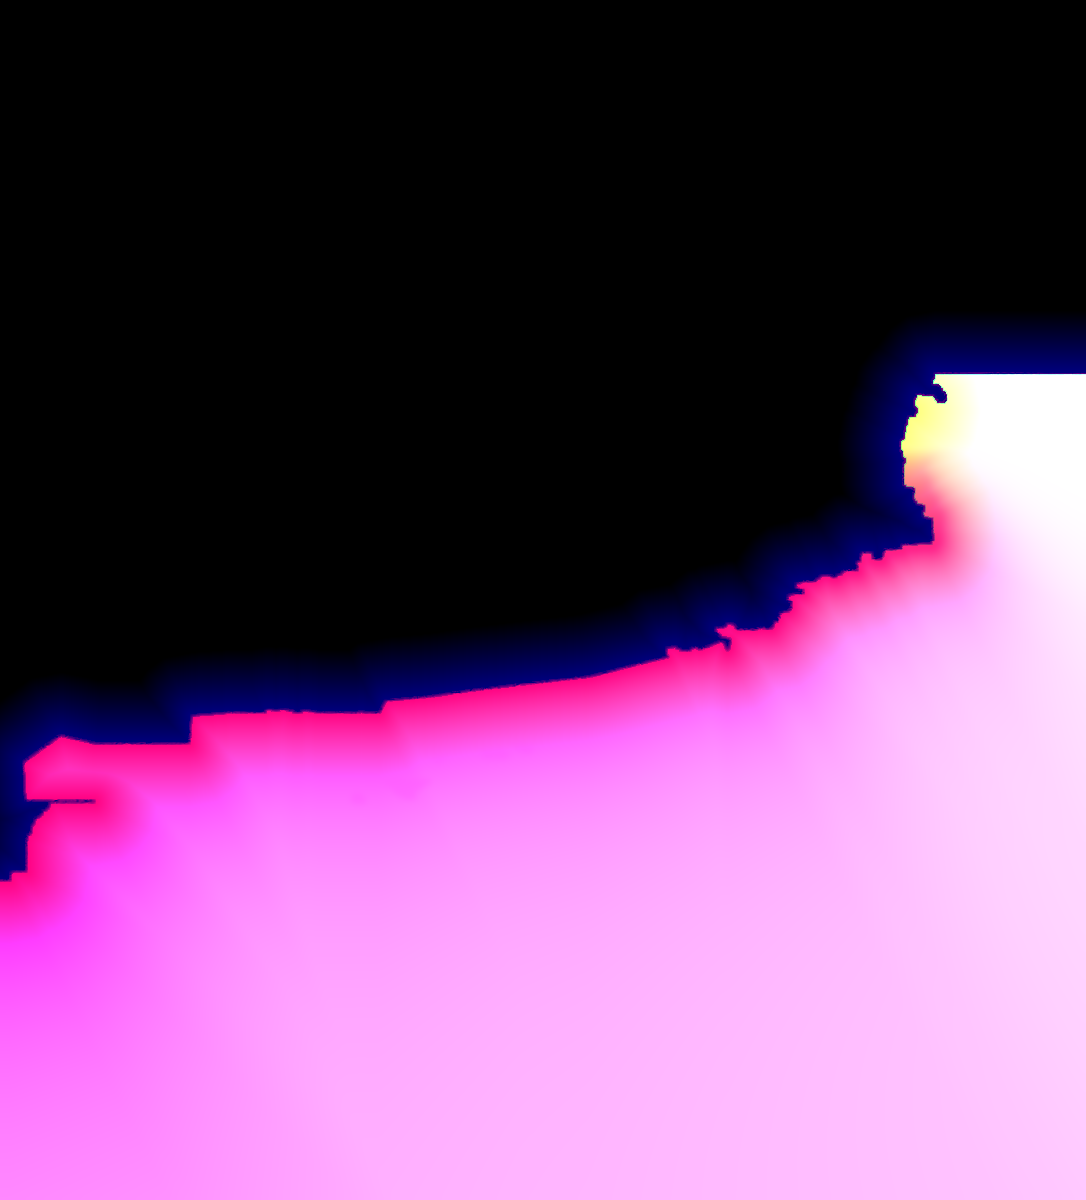
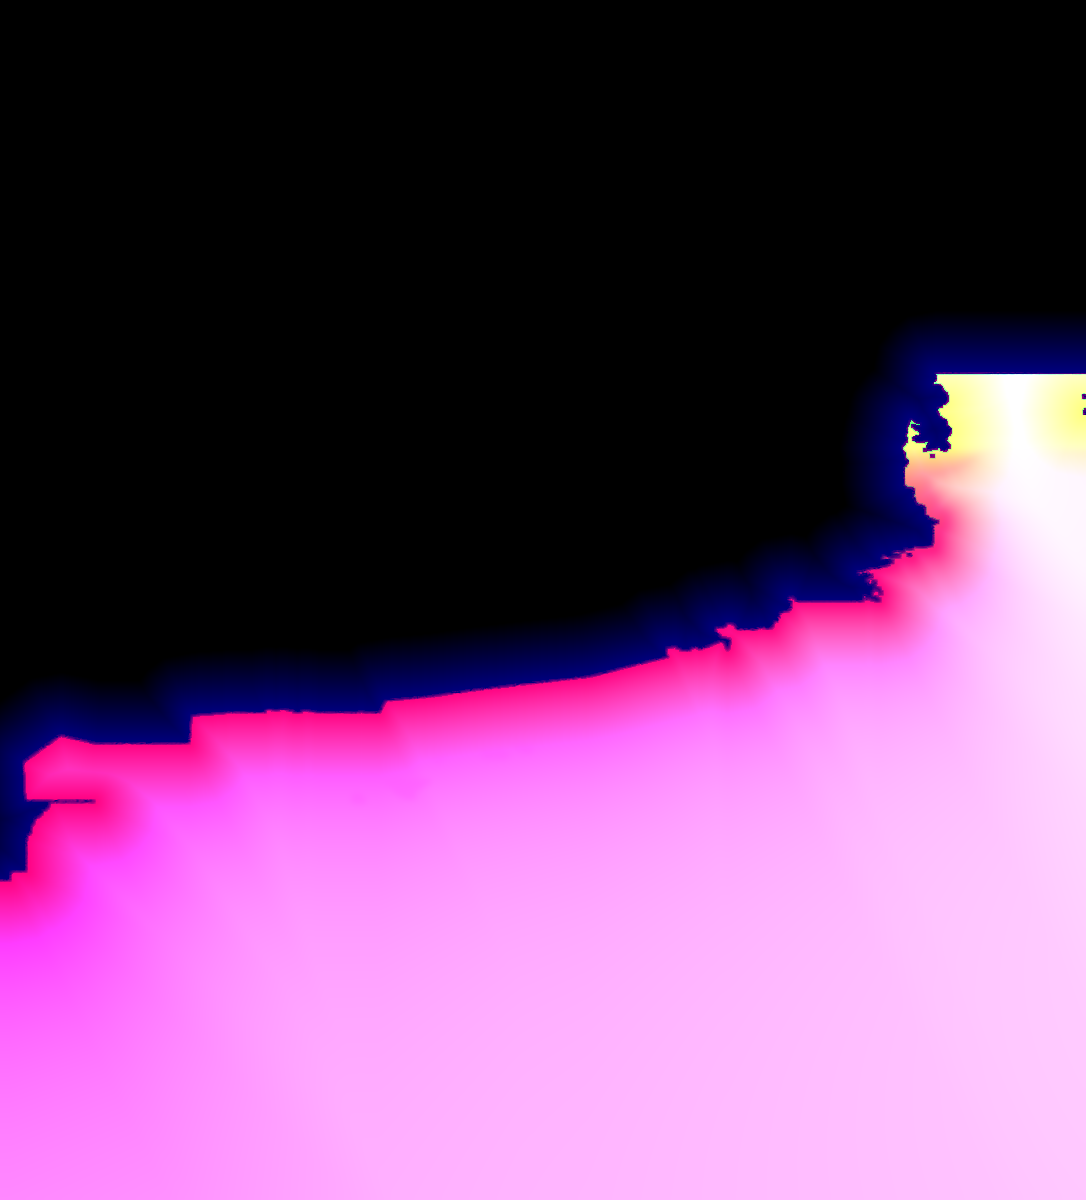
Foglie: il ramo a destra torna com'era, i cespugli con verdi propri; mare lontano
- Ramo a destra: di nuovo il dettaglio della foto e il bordo morbido di prima.
- Cespugli in basso: non prendono più i colori della foto, ma una tavolozza
  di verdi propria, più chiari all'esterno e più scuri dentro.
- sea.py: vicino alla costa lontana gli alberi non sono più dentro l'acqua
  (di notte il mare e la scia della luna ci passavano sopra).
- Mare lontano: dove le onde sono più piccole di un pixel torna il dettaglio
  della foto, così non è più sfocato.

Claude-Session: https://claude.ai/code/session_016rfVP7zDddbD6eFjRHCoFi

Changed region(s): [[0.6989, 0.4008, 0.8812, 0.6167], [0.8204, 0.3083, 1.0, 0.4008]]

diff --git a/scene.html b/scene.html
@@ -231,6 +231,9 @@ vec3 water(vec2 q, vec2 ip, vec3 sea, float expo, float aspect){
   // never a dark net
   float caus = exp(-lap*lap/0.06);
   bed *= 1.0 + floorK*CAUSTIC*(caus - 0.16);
+  // far out, where the waves are smaller than a pixel, the photo's own detail (it barely moves at
+  // that distance): the far sea stays as sharp as the photo
+  bed += (texture(uPlate, q).rgb - textureLod(uPlate, q, 2.0).rgb)*lostB*smoothstep(0.75, 1.0, depth)*(1.0 - 0.8*uSkyMix);
   vec3 body = grade(bed);
   // (softened where it is large, out at the slant, so the long waves do not stripe the sea black)
   float dF = F - F0; dF /= 1.0 + 4.0*abs(dF);
@@ -553,8 +556,8 @@ void main(){
     d = max(abs(vUV.y) - hw, abs(vUV.x) - 0.5*vLen);
     // the photo's leaves at this spot (veins, sheen, shade), mixed with the leaf's own colour
     vec2 rp = vRest + vRestDir*vUV.x + vec2(-vRestDir.y, vRestDir.x)*vUV.y;
-    vec3 ph = texture(uLeafRGB, rp/uImg).rgb;
-    c = mix(c, ph, 0.7);
+    // only the oak on the right: the bushes below keep their own colours
+    if (vKind > 0.5) c = mix(c, texture(uLeafRGB, rp/uImg).rgb, 0.7);
     // light across the blade: one half catches it, the other is a touch darker; darker at the rim
     c *= 1.0 + 0.10*sign(vUV.y)*(0.5 + 0.5*vFlip) - 0.18*smoothstep(0.55, 1.0, abs(vUV.y)/max(hw, 0.3));
     // its midrib, the light on it as it turns, and the paler underside when it flips over
@@ -562,7 +565,8 @@ void main(){
     c *= 1.0 + 0.16*vFlip;
     c = mix(c, vec3(dot(c, LUM))*1.35 + c*0.15, 0.4*smoothstep(-0.3, -1.0, vFlip));
   }
-  float a = clamp(1.25*smoothstep(vSoft, -vSoft, d), 0.0, 1.0);   // a leaf is opaque: only its rim is soft
+  float a = smoothstep(vSoft, -vSoft, d);
+  if (vKind < 0.5) a = clamp(1.25*a, 0.0, 1.0);    // a bush leaf is opaque: only its rim is soft
   if (a < 0.003) discard;
   vec3 col = grade(c);
   col = mix(col, 1.0 - 0.2*exp(-(col - 0.8)/0.2), step(0.8, col));
@@ -1056,7 +1060,7 @@ try {
   const rigSrc = 'img/rig.json';
   const [maps, sky, fill, plate, seabed, sea, objects, leafRGB, rig] = await Promise.all([
     loadImage('img/maps.png'), loadImage('img/sky.png'), loadImage('img/skyfill.png'), loadImage(SCENE.plate),
-    loadImage('img/seabed.webp'), loadImage('img/sea.png'), loadImage('img/objects.webp'), loadImage('img/leafcol.webp'),
+    loadImage('img/seabed.webp'), loadImage('img/sea.png'), loadImage('img/objects.webp'), loadImage('img/leafrgb.webp'),
     typeof rigSrc === 'string' ? fetch(rigSrc).then(r => r.json()) : rigSrc]);
   gl.useProgram(prog);
   texture(4, plate, {srgb: true, mips: true}); gl.uniform1i(U.uPlate, 4);

diff --git a/tools/foliage.py b/tools/foliage.py
@@ -15,7 +15,7 @@ backlight) stays where the photo has it.
             the bushes along the bottom, softer where the photo is out of focus there.
   twigs     on the branch on the right, the segments of the skeleton, thin and dark.
 
-Output: img/rig.json, and img/leafcol.webp (the leaves' colour, carried over their soft rim). Review image: tools/out/foliage.jpg (the leaves drawn still, over the plate).
+Output: img/rig.json. Review image: tools/out/foliage.jpg (the leaves drawn still, over the plate).
 """
 import os, json, base64
 from collections import deque
@@ -67,7 +67,8 @@ def main():
     plant = ((H < 70) & (S > 40)) | (V < 55)
     branch = (xx > 790) & (yy < 1010)          # the branch on the right: its matte is right as it is
     mask = (leafA > 0.45) & np.where(branch, ~((H >= 79) & (H <= 112) & (S > 45) & (V > 70)), plant & ~waterish)
-    mask = cv2.morphologyEx(mask.astype(np.uint8), cv2.MORPH_OPEN, np.ones((2, 2), np.uint8)).astype(bool)
+    opened = cv2.morphologyEx(mask.astype(np.uint8), cv2.MORPH_OPEN, np.ones((2, 2), np.uint8)).astype(bool)
+    mask = np.where(branch, mask, opened)
     mask = cv2.morphologyEx(mask.astype(np.uint8), cv2.MORPH_CLOSE, np.ones((3, 3), np.uint8)).astype(bool)
     n, lab, st, _ = cv2.connectedComponentsWithStats(mask.astype(np.uint8), connectivity=8)
     keep = np.zeros(n, bool)
@@ -136,10 +137,17 @@ def main():
     # over the soft, out-of-focus rim (where the photo shows as much sea as leaf), so a leaf at the
     # edge of a bush is green, not the colour of the water behind it
     F = cv2.imread(os.path.join(OUT, 'leafrgb.webp')).astype(np.float32)
-    sure = (leafA > 0.85) & mask & ~waterish
-    sure = cv2.erode(sure.astype(np.uint8), np.ones((3, 3), np.uint8)).astype(bool)
-    F = np.where(sure[..., None], F, maps.pull_push(F, sure))
-    cv2.imwrite(os.path.join(OUT, 'leafcol.webp'), np.clip(F, 0, 255).astype(np.uint8), [cv2.IMWRITE_WEBP_QUALITY, 85])
+    # the bushes along the bottom do not take the photo's colours (out of focus, half sea): a
+    # palette of their own greens, lighter on the outside of the bush where the sun reaches,
+    # darker deep inside
+    inside = cv2.distanceTransform(mask.astype(np.uint8), cv2.DIST_L2, 5)
+    def bush_colour(x, y, layer):
+        depth = np.clip(inside[int(y), int(x)] / 28.0, 0, 1)
+        hue = 34 + 9 * rng.random()                                  # OpenCV hue: yellow-green .. green
+        sat = 150 + 60 * rng.random()
+        val = (205 - 120 * depth) * (0.8 + 0.3 * rng.random()) * (0.85 if layer == 0 else 1.0)
+        hsv_ = np.uint8([[[hue, min(sat, 255), np.clip(val, 30, 235)]]])
+        return cv2.cvtColor(hsv_, cv2.COLOR_HSV2BGR)[0, 0].astype(np.float32)
     g = cv2.cvtColor(im, cv2.COLOR_BGR2GRAY).astype(np.float32)
     sharp = np.sqrt(cv2.GaussianBlur(cv2.Laplacian(g, cv2.CV_32F) ** 2, (0, 0), 10))
     right = mask & (xx > 790) & (yy < 1010)
@@ -163,10 +171,13 @@ def main():
                 r = max(1, int(L * 0.35))
                 y0, y1, x0, x1 = max(0, yi - r), min(h, yi + r + 1), max(0, xi - r), min(w, xi + r + 1)
                 sub = mask[y0:y1, x0:x1]
-                col = F[y0:y1, x0:x1][sub].mean(0) if sub.any() else F[yi, xi]
-                col = col * (0.94 + 0.12 * rng.random()) * (0.92 if layer == 0 else 1.0)   # the lower layer a touch darker
+                if oak:
+                    col = F[y0:y1, x0:x1][sub].mean(0) if sub.any() else F[yi, xi]
+                    col = col * (0.94 + 0.12 * rng.random()) * (0.92 if layer == 0 else 1.0)   # the lower layer a touch darker
+                else:
+                    col = bush_colour(x, y, layer)
                 s_loc = sharp[yi, xi]
-                soft = float(np.clip(1.6 - s_loc / 60.0, 0.6, 1.1))
+                soft = float(np.clip(2.0 - s_loc / 50.0, 0.6, 1.7)) if oak else float(np.clip(1.6 - s_loc / 60.0, 0.6, 1.1))
                 leaves.append((nd_i, x - nd['px'], y - nd['py'], L, ang, col[2], col[1], col[0], soft,
                                1 if oak else 0, rng.random()))
     print('leaves', len(leaves))

diff --git a/tools/sea.py b/tools/sea.py
@@ -71,6 +71,12 @@ def main():
     W &= yy > HORIZON
     W = cv2.morphologyEx(W.astype(np.uint8), cv2.MORPH_OPEN, np.ones((3, 3), np.uint8)).astype(bool)
     W = maps.largest_touching(W, [(600, 900), (1050, 420), (500, 1100), (950, 700)])
+    # out by the far shore the trees reach over the water's edge: they are land, the sea stops at them
+    hsv0 = cv2.cvtColor(M['im'], cv2.COLOR_BGR2HSV).astype(np.float32)
+    treeish = ((hsv0[..., 0] < 75) | (hsv0[..., 2] < 80)) & (yy < 600) & (xx > 700)
+    treeish = cv2.dilate(cv2.morphologyEx(treeish.astype(np.uint8), cv2.MORPH_OPEN, np.ones((2, 2), np.uint8)), np.ones((3, 3), np.uint8)).astype(bool)
+    W &= ~(treeish & ~M['right_zone'])
+    W = maps.largest_touching(W, [(600, 900), (1050, 420), (500, 1100), (950, 700)])
     grey = cv2.cvtColor(M['im'], cv2.COLOR_BGR2GRAY).astype(np.float32) / 255
     cover = maps.guided(grey, W.astype(np.float32), 2, 1e-3)
     cover = np.where(cv2.dilate(W.astype(np.uint8), np.ones((5, 5), np.uint8)).astype(bool), cover, 0)
